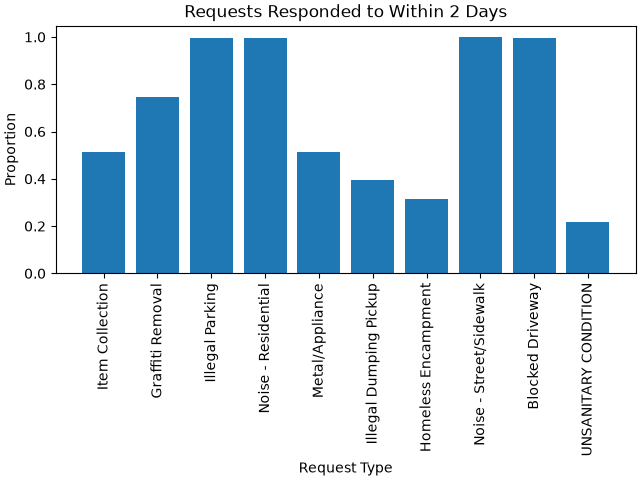
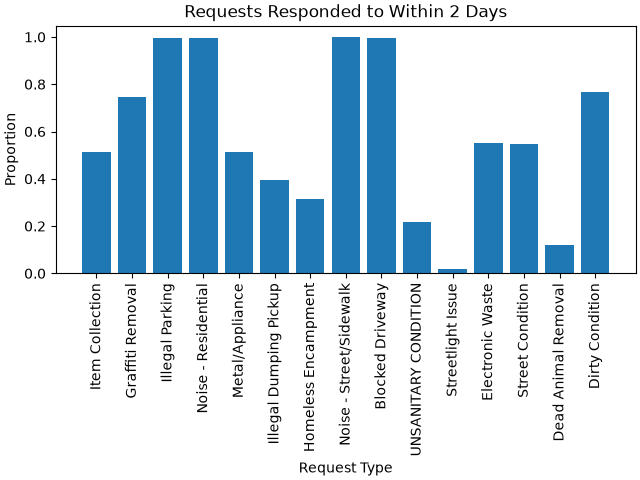
update number of types in timely response chart

Changed region(s): [[0.3125, 0.0625, 0.9688, 0.9688], [0.125, 0.0625, 0.3125, 0.8438]]

diff --git a/figs.py b/figs.py
@@ -73,7 +73,7 @@ df_prop = counts.withColumn("proportion", F.col("l2count") / F.col("count"))
 
 
 df_prop = df_prop.orderBy("count", ascending=False).select(["request_type", "proportion"])
-pd_prop = df_prop.limit(10).toPandas()
+pd_prop = df_prop.limit(15).toPandas()
 fig4, ax4 = plt.subplots(layout="constrained") # to make the x ticks/title not get cut off
 plt.bar(x=pd_prop["request_type"], height=pd_prop["proportion"])
 plt.xticks(rotation="vertical")
